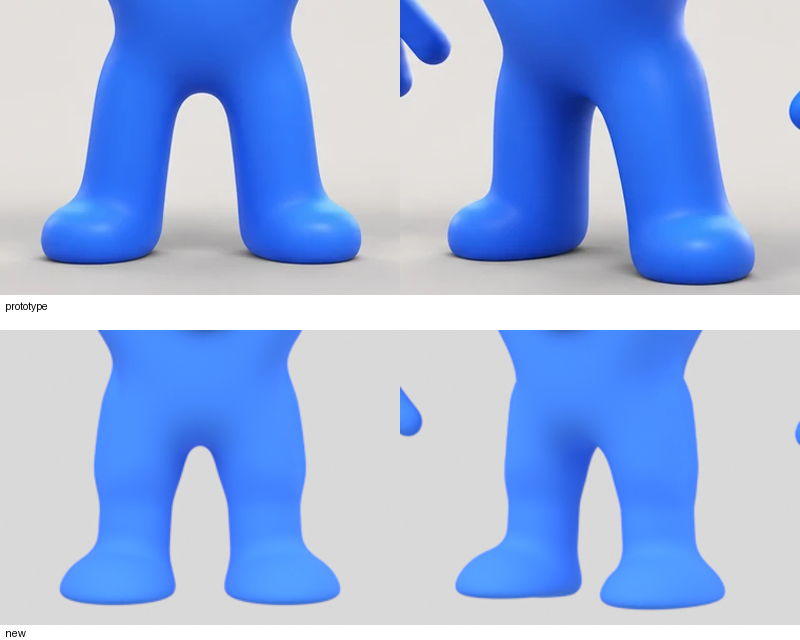
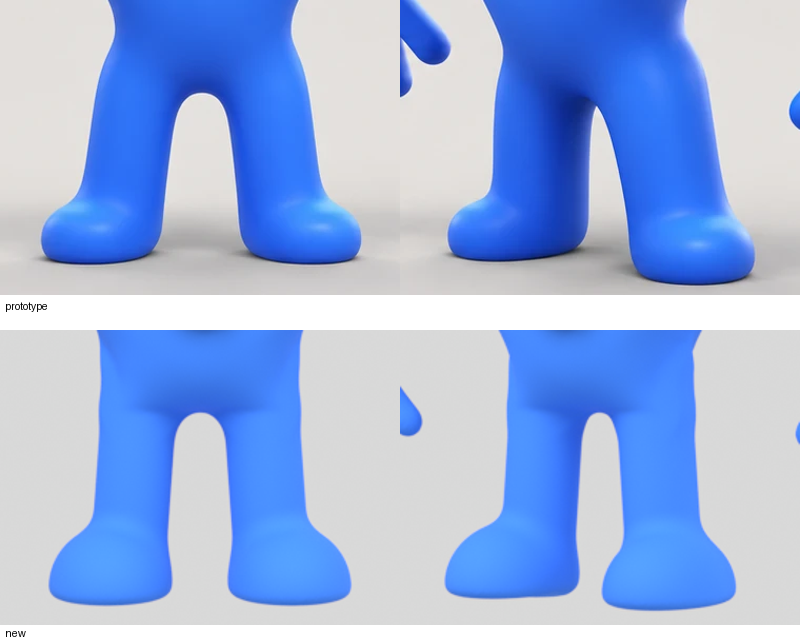
Тело жителя: ноги целиком ровными трубками от туловища (без стыка у колен), ступни выше и круглее
Claude-Session: https://claude.ai/code/session_01Gsst3hFuf1c6zM4f6Jt7o5

diff --git a/art_src/characters/build_body.py b/art_src/characters/build_body.py
@@ -21,13 +21,16 @@ HEIGHT = 2.41          # от пола до макушки, м
 STEP = 0.01            # шаг 3D-сетки, м
 DEPTH = 0.385          # полутолщина туловища (лицо — чуть впереди, на y ≈ -0.40)
 PROFILE = 4.0          # как резко толщина упирается в DEPTH: больше — площе перед, туже края
-ANKLE = 0.5            # ниже силуэт не берём: ноги — ровные трубки до ступней (на картинке книзу расширяются)
-LEG_R = 0.155          # толщина ноги (как на картинке выше щиколотки), м
-LEG_TOP_X = 0.25       # ось ноги вверху (книзу чуть наружу — до FOOT_X), как на картинке и в скелете
-FOOT_X = 0.29          # ось ноги, м от середины
-FOOT_R = (0.25, 0.33, 0.2)    # полуоси купола ступни: в стороны, вперёд-назад, вверх
-FOOT_OUT = 0.06        # ступня смещена наружу
+CROTCH = 0.78          # ниже — ноги не с картинки, а ровные трубки до ступней
+LEG_R = 0.162          # толщина ноги (как на картинке), м
+LEG_TOP_X = 0.25       # ось ноги вверху, внутри туловища (книзу чуть наружу — до FOOT_X)
+LEG_TOP_Z = 0.95
+LEG_BLEND = 0.15       # плавность перехода туловища в ноги (пах — скруглённая арка)
+FOOT_X = 0.31          # ось ноги, м от середины
+FOOT_R = (0.26, 0.35, 0.26)   # полуоси ступни: в стороны, вперёд-назад, вверх (центр чуть над полом)
+FOOT_OUT = 0.07        # ступня смещена наружу
 FOOT_FWD = 0.1         # и вперёд
+FOOT_LIFT = 0.04       # центр ступни над полом — бока круглые, подошва плоская
 SOLE_R = 0.05          # скругление края подошвы
 
 
@@ -45,6 +48,10 @@ def silhouette():
     crop = m[:, int(cx) - w:int(cx) + w + 1].astype(np.float32)
     sym = ndimage.gaussian_filter((crop + crop[:, ::-1]) * 0.5, 2.5) > 0.5
     scale = HEIGHT / (ys.max() - ys.min())
+    # Ноги с картинки не берём (ниже паха): их строим ровными трубками, ступни — объёмными.
+    mid = int(0.75 / scale)    # только середина — кисти рук висят ниже паха
+    sym[int(ys.max() - CROTCH / scale):, w - mid:w + mid + 1] = False
+    sym = ndimage.gaussian_filter(sym.astype(np.float32), 3.0) > 0.5
     return sym, scale, w, ys.max()
 
 
@@ -74,7 +81,7 @@ def _inflate(inside):
 def _foot(x, y, z, side):
     """Поле ступни (ось ноги — x = 0, y = 0; side — к внешней стороне): низкий купол — половина
     эллипсоида с плоской подошвой и скруглённым краем; с ногой сливается плавной галтелью."""
-    c = np.array([side * FOOT_OUT, -FOOT_FWD, 0.0])
+    c = np.array([side * FOOT_OUT, -FOOT_FWD, FOOT_LIFT])
     r = np.array(FOOT_R)
     q = np.stack([(x - c[0]) / r[0], (y - c[1]) / r[1], (z - c[2]) / r[2]], -1)
     k0 = np.linalg.norm(q, axis=-1)
@@ -100,22 +107,16 @@ def build_mesh():
     g = (np.maximum(g, 1e-6) ** -PROFILE + DEPTH ** -PROFILE) ** (-1.0 / PROFILE)   # толще DEPTH не бывает — плоский перед
     Y = ys[None, :, None]
     F = np.maximum(np.abs(Y) - g[:, None, :], d2[:, None, :])
-    # Ступни с картинки плоские (вид спереди) и расширяются книзу — ноги плавно обрезаем выше
-    # щиколоток (скруглённый торец), ступни ставим объёмные.
     X3, Y3, Z3 = np.meshgrid(xs, ys, zs, indexing='ij')
-    cut = ANKLE - Z3
-    k = 0.12
-    h = np.clip(0.5 + 0.5 * (cut - F) / k, 0.0, 1.0)
-    F = F * (1 - h) + cut * h + k * h * (1 - h)
-    # Нога — ровная трубка толщиной с ногу на картинке, от туловища до ступни.
+    # Нога — ровная трубка толщиной с ногу на картинке, от туловища до ступни (без стыков).
     for sx in (1, -1):
-        a = np.array([sx * LEG_TOP_X, 0.0, ANKLE + 0.3])
-        ba = np.array([sx * (FOOT_X - LEG_TOP_X), 0.0, 0.08 - ANKLE - 0.3])
+        a = np.array([sx * LEG_TOP_X, 0.0, LEG_TOP_Z])
+        ba = np.array([sx * (FOOT_X - LEG_TOP_X), 0.0, 0.1 - LEG_TOP_Z])
         pa = np.stack([X3 - a[0], Y3 - a[1], Z3 - a[2]], -1)
         t = np.clip((pa @ ba) / (ba @ ba), 0.0, 1.0)
         shin = np.linalg.norm(pa - t[..., None] * ba, axis=-1) - LEG_R
-        h = np.clip(0.5 + 0.5 * (shin - F) / 0.15, 0.0, 1.0)
-        F = shin * (1 - h) + F * h - 0.15 * h * (1 - h)
+        h = np.clip(0.5 + 0.5 * (shin - F) / LEG_BLEND, 0.0, 1.0)
+        F = shin * (1 - h) + F * h - LEG_BLEND * h * (1 - h)
     # Ступня — низкий купол с плоской подошвой, шире ноги (в стороны и вперёд), как на прототипе.
     for sx in (1, -1):
         foot = _foot(X3 - sx * FOOT_X, Y3, Z3, sx)
